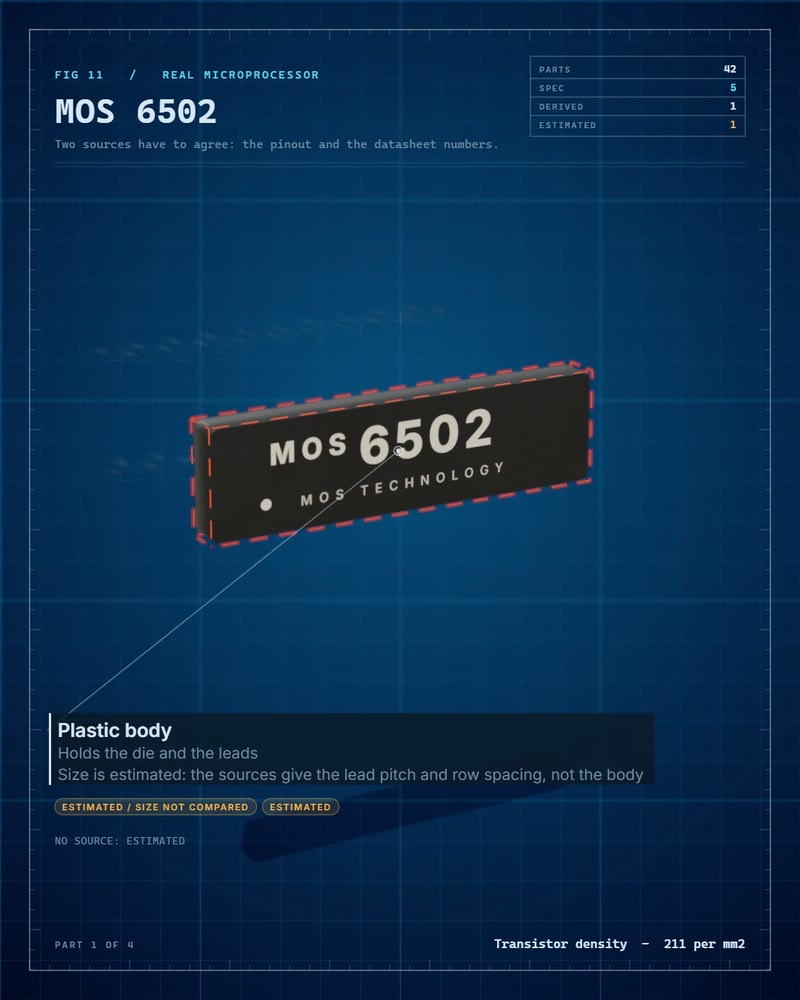
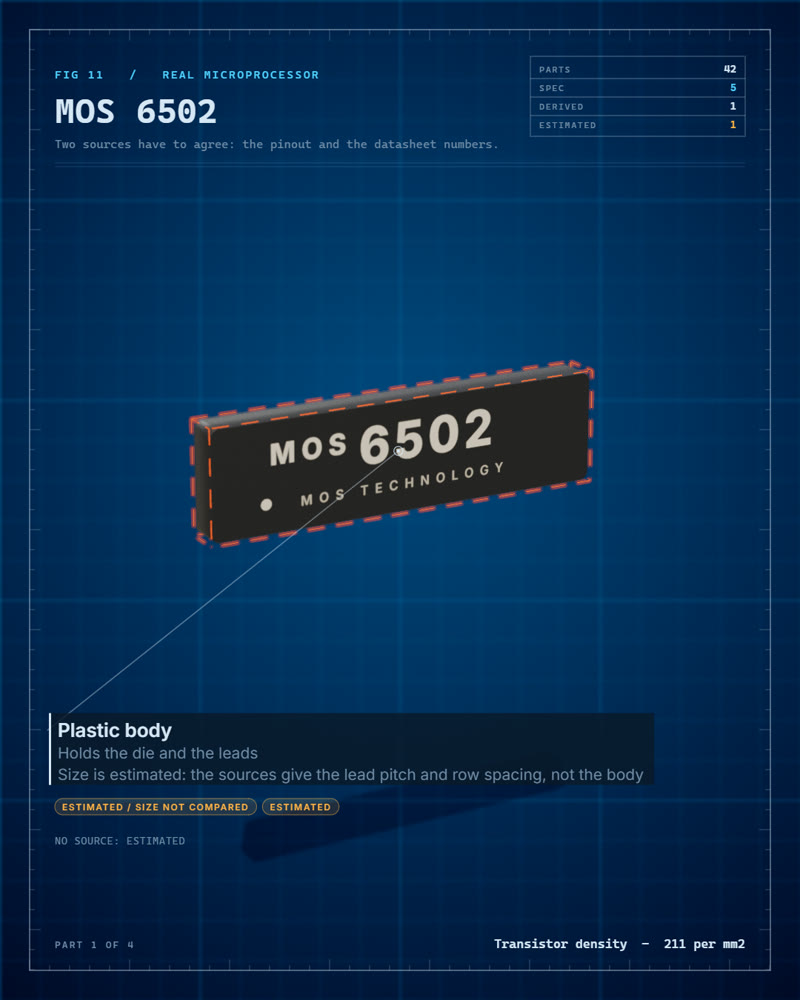
feat(studio): path-traced site posters
The thirteen Studio posters are rendered with the path tracer
(--pathtrace 128); the films stay raster.

Path-traced stills now look like the films:
- the traced image goes through the composer's depth of field, bloom,
  tone map and Punchy, in place of the render, SSR and GTAO passes
- a raster pass on top draws the floor shadow, the line overlays and
  the x-ray parts with their own material (a ray through a transparent
  part to the page background came back with alpha 0)
- parts dimmed by a tour stop (opacity < 0.05) are left out of the
  trace and of the raster pass
- InstancedMesh is traced one mesh per instance (the WebGL path tracer
  has no instancing; Enigma's contact pins were missing)
- metals get a roughness floor of 0.2 while tracing (a near-mirror
  seen edge-on came out black)
- a new run cancels the one before it and restores the scene first
  (the load-time draw and the asked-for frame sampled together)

SKILL.md says when to use --pathtrace (posters, never films);
docs/rendering.md has the measured times.

Claude-Session: https://claude.ai/code/session_01FkYGuQBYQ8BmGQMaGbWs9o

diff --git a/kit/gl.js b/kit/gl.js
@@ -198,25 +198,72 @@ float mxFbm(vec3 p) { return 0.55 * mxNoise(p) + 0.3 * mxNoise(p * 2.03 + 7.1) +
     st.ssr = ssr;
     // pathtrace: N samples of a real path tracer (three-gpu-pathtracer, loaded by kit/boot.js with ?pathtrace) instead of the raster pipeline, for
     // stills: light bounces between parts, soft shadows and reflections come out of the physics. The environment is the same studio (as a cube
-    // map); the shadow floor and the shader micro-detail are raster-only and are left out; the frame is composed over the page's background.
+    // map); the frame is composed over the page's background.
+    // PT_DIM: below this opacity a part is dimmed by a tour stop (about 0.01) and left out; an x-ray part (0.1 to 0.55) stays
+    const PT_METAL_ROUGH = 0.2, PT_DIM = 0.05;
+    const dimmedPart = (m) => { const mt = Array.isArray(m.material) ? m.material[0] : m.material; return mt.transparent && mt.opacity < PT_DIM; };
     let pt = null, ptEnv = null; const ptBg = new TH.Scene(); ptBg.background = scene.background;
+    const xrayPart = (m) => { const mt = Array.isArray(m.material) ? m.material[0] : m.material; return mt.transparent && !mt.depthWrite && !dimmedPart(m); };
+    // over the path-traced image, one raster pass draws what the path tracer cannot: the shadow on the floor (the shadow catcher it lacks), the
+    // line overlays (dashed estimate boxes, leaders) and the x-ray parts, with their own material as in a film. The traced parts are drawn as
+    // depth only (invisible, but they cast the shadow and hide what is behind)
+    const depthOnly = new TH.MeshBasicMaterial({ colorWrite: false });
+    let ptLayer = null;      // during a run: the x-ray parts the raster pass draws, and the raster environment they are lit by
+    // a part dimmed (nearly transparent: the rest of the object during a tour stop) is left out: it would hide the lines and cast a ghost shadow
+    const overlay = (r) => {
+      const swapped = [], hidden = [], xr = ptLayer ? ptLayer.xray : [], bg = scene.background, env = scene.environment, fl = floor.visible;
+      xr.forEach((m) => { m.visible = true; });
+      scene.traverse((m) => {
+        if (!m.isMesh || m === floor || !m.visible || !m.material || xr.includes(m)) return;
+        if (dimmedPart(m)) { m.visible = false; hidden.push(m); } else { swapped.push([m, m.material]); m.material = depthOnly; }
+      });
+      scene.background = null; scene.environment = ptLayer ? ptLayer.env : null; floor.visible = true;
+      try { r.clearDepth(); r.render(scene, camera); } finally { swapped.forEach(([m, mt]) => { m.material = mt; }); hidden.forEach((m) => { m.visible = true; }); xr.forEach((m) => { m.visible = false; }); scene.background = bg; scene.environment = env; floor.visible = fl; }
+    };
     st.pathTrace = (samples) => {
       if (!g.THREE_PT) throw new Error('pathtrace: kit/vendor/pathtracer.bundle.js is not loaded (open the page with ?pathtrace)');
       if (!pt) {
         pt = new g.THREE_PT.WebGLPathTracer(renderer); Object.assign(pt, { renderDelay: 0, minSamples: 0, fadeDuration: 0, rasterizeScene: false, bounces: 8, filterGlossyFactor: 0.5 }); pt.tiles.set(2, 2);
-        pt.renderToCanvasCallback = (target, r, quad) => { r.setRenderTarget(null); const ac = r.autoClear; r.autoClear = false; r.clear(); r.render(ptBg, camera); quad.material.transparent = true; quad.material.blending = TH.NormalBlending; quad.render(r); r.autoClear = ac; };
+        // the traced image goes through the same finish as a raster frame (depth of field, bloom, tone map, Punchy): it takes the place of the
+        // render, reflection and ambient-occlusion passes (the path tracer does all three), drawn linear into the composer's buffer
+        pt.renderToCanvasCallback = (target, r, quad) => {
+          const passes = composer.passes, off = passes.slice(0, passes.indexOf(bokeh)).filter((p) => p.enabled);
+          const traced = { enabled: true, needsSwap: true, clear: false, renderToScreen: false, setSize() {}, render: (rr, writeBuffer) => {
+            rr.setRenderTarget(writeBuffer); const ac = rr.autoClear; rr.autoClear = false; rr.clear(); rr.render(ptBg, camera);
+            quad.material.transparent = true; quad.material.blending = TH.NormalBlending; quad.render(rr); overlay(rr); rr.autoClear = ac;
+          } };
+          off.forEach((p) => { p.enabled = false; }); passes.unshift(traced);
+          try { composer.render(); } finally { passes.shift(); off.forEach((p) => { p.enabled = true; }); }
+        };
         const crt = new TH.WebGLCubeRenderTarget(512, { type: TH.HalfFloatType }); new TH.CubeCamera(0.1, 100, crt).update(renderer, G.studioEnvironment()); ptEnv = crt.texture;
       }
       // asynchronous, a few samples at a time with a pause between them: one long burst of GPU work loses the WebGL context (the driver's timeout).
       // MX.run's __frame waits for st.ptPending and draws the frame again with st.ptHold set, which keeps the accumulated image on the canvas.
+      // a new call (the page draws once on load, then the frame asked for) cancels the run before it and puts the scene back first: two runs at once
+      // would sample together, and the second would take the parts the first had hidden for invisible
+      if (st.ptRestore) st.ptRestore();
+      const run = st.ptRun = (st.ptRun || 0) + 1;
       const bg = scene.background, env = scene.environment, fl = floor.visible;
       scene.background = null; scene.environment = ptEnv; floor.visible = false;
+      // the dimmed parts are left out of the traced scene too: nearly invisible on screen, they still show in a mirror and cost BVH and samples
+      const dimmed = []; scene.traverse((m) => { if (m.isMesh && m.visible && m.material && dimmedPart(m)) { m.visible = false; dimmed.push(m); } });
+      // the WebGL path tracer has no instancing: an InstancedMesh (Enigma's contact pins) is traced as one plain mesh per instance, for the run
+      const inst = [], copies = []; scene.traverse((m) => { if (m.isInstancedMesh && m.visible && m.parent) inst.push(m); });
+      inst.forEach((im) => { for (let i = 0; i < im.count; i++) { const c = new TH.Mesh(im.geometry, im.material); c.matrixAutoUpdate = false; im.getMatrixAt(i, c.matrix); c.matrix.premultiply(im.matrix); c.castShadow = im.castShadow; im.parent.add(c); copies.push(c); } im.visible = false; });
+      // an x-ray part (transparent, no depth write) is left to the raster pass on top, with its own material: traced, it lost what was behind it
+      // (a ray through it to the page's background comes back with alpha 0) and it covered twice (once per face it crosses)
+      const xray = []; scene.traverse((m) => { if (m.isMesh && m.visible && m.material && xrayPart(m)) { m.visible = false; xray.push(m); } });
+      ptLayer = { xray, env };
+      // a metal gets a roughness floor: seen at a grazing angle, a near-mirror loses most of its reflection in the path tracer's sampler and its side
+      // walls come out black; the raster adds micro roughness in the shader (G.DETAIL), so the floor keeps the two looks alike
+      const rough = []; scene.traverse((m) => { const mt = m.isMesh && m.visible && m.material; if (mt && !Array.isArray(mt) && mt.metalness >= 0.5 && mt.roughness < PT_METAL_ROUGH) { rough.push([mt, mt.roughness]); mt.roughness = PT_METAL_ROUGH; } });
+      st.ptRestore = () => { st.ptRestore = null; scene.background = bg; scene.environment = env; floor.visible = fl; dimmed.forEach((m) => { m.visible = true; }); rough.forEach(([mt, r]) => { mt.roughness = r; }); xray.forEach((m) => { m.visible = true; }); ptLayer = null; copies.forEach((c) => c.removeFromParent()); inst.forEach((im) => { im.visible = true; }); };
       pt.setScene(scene, camera); pt.reset();
       st.ptPending = (async () => {
         try {
-          for (let i = 0; i < 2400 && pt.isCompiling; i++) await new Promise((r) => setTimeout(r, 25));
-          let guard = 0; while (pt.samples < samples && guard++ < samples * 8) { pt.renderSample(); renderer.getContext().finish(); await new Promise((r) => setTimeout(r, 0)); }
-        } finally { scene.background = bg; scene.environment = env; floor.visible = fl; }
+          for (let i = 0; i < 2400 && pt.isCompiling && run === st.ptRun; i++) await new Promise((r) => setTimeout(r, 25));
+          let guard = 0; while (run === st.ptRun && pt.samples < samples && guard++ < samples * 8) { pt.renderSample(); renderer.getContext().finish(); await new Promise((r) => setTimeout(r, 0)); }
+        } finally { if (run === st.ptRun && st.ptRestore) st.ptRestore(); }
       })();
     };
     if (o.pathtrace > 0) g.__ptStage = st;

diff --git a/SKILL.md b/SKILL.md
@@ -98,12 +98,12 @@ Confidence is not size verification: cards explicitly say `SIZE NOT COMPARED` or
 5. **Script the film**: `F.run({ duration, keys, script, audio })`. Camera keys `[t, view, ease]` with `dof`, per-part `arc`, `spin`, `tilt`, staggered `explodeK`, a moving key light, tour stops that focus one part and show a callout, then 2D panels (structure, interior, sensors to scale, processors, comparison, outro). Every panel shows its sources.
 6. **Design the sound** with `kit/sound.js` (see below). Never reuse another figure's cue list.
 7. **Check stills before rendering**: `node scripts/render.mjs <page> --still <t> --blur 1`. Look at the assembled view, an exploded tour stop, each panel, and compare the rear view with the real photos side by side.
-8. **Render**: `node scripts/render.mjs <page> --duration <s> --fps 30 --blur 3 --out out/<name>.mp4` (about 6 s of wall time per second of video). Verify duration, stereo, loudness, contact sheet. Test `?explore` with `scripts/probe.mjs` (simulated mouse).
+8. **Render**: `node scripts/render.mjs <page> --duration <s> --fps 30 --blur 3 --out out/<name>.mp4` (about 6 s of wall time per second of video). Verify duration, stereo, loudness, contact sheet. Test `?explore` with `scripts/probe.mjs` (simulated mouse). For a poster or a cover image, add `--pathtrace 128 --timeout 900` to the `--still` command: a real path tracer, one to six minutes per image, never for the film (see `docs/rendering.md`).
 
 ## The engine
 
 - `kit/vendor/three.bundle.js`: three.js 0.186 plus EffectComposer, GTAO, Bokeh, Bloom, OutputPass, RoomEnvironment. Rebuild with `scripts/build-vendor.mjs` (`tools/vendor-build`). Works from `file://`.
-- `kit/gl.js`: perspective camera (fov 22; `zoom` = px per mm at the target), managed colour, Neutral tone mapping, studio environment, soft shadows, MSAA 4x, GTAO, depth of field via `view.dof`, bloom. `G.mat` (physical material), `G.glass` (real transmission), `G.canvasTex`, `G.rbox`. Traps: `visible = null` does not hide (use booleans), `position`/`rotation` are read-only (copy), transmission needs `transparent: false`.
+- `kit/gl.js`: perspective camera (fov 22; `zoom` = px per mm at the target), managed colour, AgX Punchy tone mapping, studio environment, soft shadows, MSAA 4x, screen-space reflections on metals (renders only), GTAO, depth of field via `view.dof`, bloom, path-traced stills with `?pathtrace`. `G.mat` (physical material), `G.glass` (real transmission), `G.canvasTex`, `G.rbox`. Traps: `visible = null` does not hide (use booleans), `position`/`rotation` are read-only (copy), transmission needs `transparent: false`.
 - `kit/figure.js`: `MX.figure({ w, h, axes, stage, card })`, `F.add(part)`, `F.finish()`, `F.camera`, `F.shot`, `F.drift`, `F.overlay`, `F.run`, `F.explore` (orbit, wheel zoom, explode slider, view presets, layer toggles, measure between two points, tap a part). HUD helpers in `F.hud`: `dim`, `tag`, `panel`, `info`.
 - `kit/core.js`: easing (`MX.E.bezier`, `outBack`, `outElastic`, `smooth`, `snap`), `MX.card`, `MX.callout`, `MX.run` (frame-exact capture with motion blur by subframes, stereo WAV).
 - `kit/sound.js`: modal synthesis per material (glass, aluminum, steel, plastic, pcb, ceramic, pouch, rubber; pitch falls with the size of the part, decay differs by material), `click`, `whoosh`, `servo`, `charge`, `blip`, `tone`, `boom`, stereo pan per object, reverb, generative music bed with its own key and tempo. Map events to the physics: a part landing = impact of its own material and size; CPU cores = notes quantized to a scale by clock speed; each lens = a steel ring sized like the lens. `scripts/soundtest.mjs` measures that materials and sizes really sound different.

diff --git a/docs/rendering.md b/docs/rendering.md
@@ -28,7 +28,7 @@ Studio renders 3D at 1.5x and downsamples to delivery resolution, keeping MSAA 4
 - **Surface detail** (`G.DETAIL`, named per material in `kit/parts.js`): procedural micro-detail in the shader, in object space, with no textures and no UVs. It gives fine grain (brushed streaks on machined metal, mottling on cast metal, grain on plastic, rubber and boards), large soft variation of the roughness (handling marks, about 10 mm), and edge wear (polished metal edges, rubbed paint), and it fades before it could shimmer. Metals are fully metallic; brushed metal has anisotropic highlights; paint has a clear coat.
 - **Screen-space reflections**: metal reflects the parts next to it. As in Eevee, a reflection layer over the multisampled frame (shadows and edges unchanged), from three's SSRPass, metals only. On by default in renders (`render.mjs` opens pages with `?render=1`), off in live viewers; `--ssr 0` / `--ssr 1` (or `?ssr=`) overrides. At half resolution with a capped ray march (240 steps); about +15 % render time.
 - **Tone map**: `agx-punchy` by default (AgX, which rolls bright highlights off like a photograph, with Blender's Punchy look restoring saturation and contrast); `--tonemap agx` or `--tonemap neutral` (the look up to 0.10, exact maker colours).
-- **Path-traced stills**: `render.mjs <page> --still <t> --pathtrace 256 --blur 1 --timeout 900` renders the frame with three-gpu-pathtracer (light bounces, soft shadows and reflections from the physics), over the page's background, with the studio as environment. One to three minutes per still on a laptop GPU, so stills and posters, not films (a 30 s film would take 15 to 45 hours). The shadow floor, the shader micro-detail and line overlays (dashed estimate boxes) are raster-only and do not appear.
+- **Path-traced stills**: `render.mjs <page> --still <t> --pathtrace 128 --blur 1 --timeout 900` renders the frame with three-gpu-pathtracer (light bounces, soft shadows and reflections from the physics), over the page's background, with the studio as environment. A raster pass on top adds what the path tracer has no notion of: the shadow on the floor, the line overlays (dashed estimate boxes, leaders) and the x-ray parts (transparent, drawn with their own material as in a film). The result then goes through the same finish as a raster frame (depth of field, bloom, tone map, Punchy). Instanced meshes are traced one instance at a time (the WebGL path tracer has no instancing). Parts dimmed by a tour stop are left out, and metals get a roughness floor of 0.2 in place of the raster's shader micro-detail (a near-mirror seen edge-on otherwise comes out black). Measured on a laptop RTX 3080 Ti at 128 samples: 1 to 1.5 minutes for a few parts, about 5.5 minutes for the 58-part hub. The cost is paid once when the image is made: the page that shows the poster loads a JPEG, and the path tracer (215 KB) loads only with `?pathtrace`. Not for films (a 30 s film would take days).
 
 ## Styles
 

diff --git a/CHANGELOG.md b/CHANGELOG.md
@@ -2,6 +2,13 @@
 
 ## Unreleased
 
+- **The site posters are path-traced** (`--pathtrace 128`), from the same frames as before; the films stay raster.
+- **Path-traced stills look like the films:** a raster pass over the traced image draws the floor shadow, the dashed estimate boxes and leaders, and the x-ray parts (a ray through a transparent part to the page's background lost what was behind it); then the frame goes through the film's bloom, tone map and Punchy (it came out flat and dark). Parts dimmed by a tour stop are left out (they hid the lines, cast ghost shadows and showed up in reflections).
+- **Fix: instanced parts were missing from path-traced stills** (Enigma's contact pins): the WebGL path tracer has no instancing, so each instance is traced as its own mesh.
+- **Fix: a path-traced still could come out empty or mixed.** The page draws once on load, which started a run that was still sampling when the asked-for frame started a second one; the two sampled together and the second took the parts the first had hidden for invisible. A new run now cancels the one before it.
+- **Fix: polished metal seen edge-on came out black** in path-traced stills (the RAR5 byte's side walls). Metals get a roughness floor of 0.2 while tracing, which stands in for the raster's shader micro-detail.
+- The skill tells the agent when to use `--pathtrace` (posters and cover images, never films).
+
 ## 0.11.0 - 2026-10-20
 
 Metal that reads as metal, reflections between parts, and a path tracer for stills.
